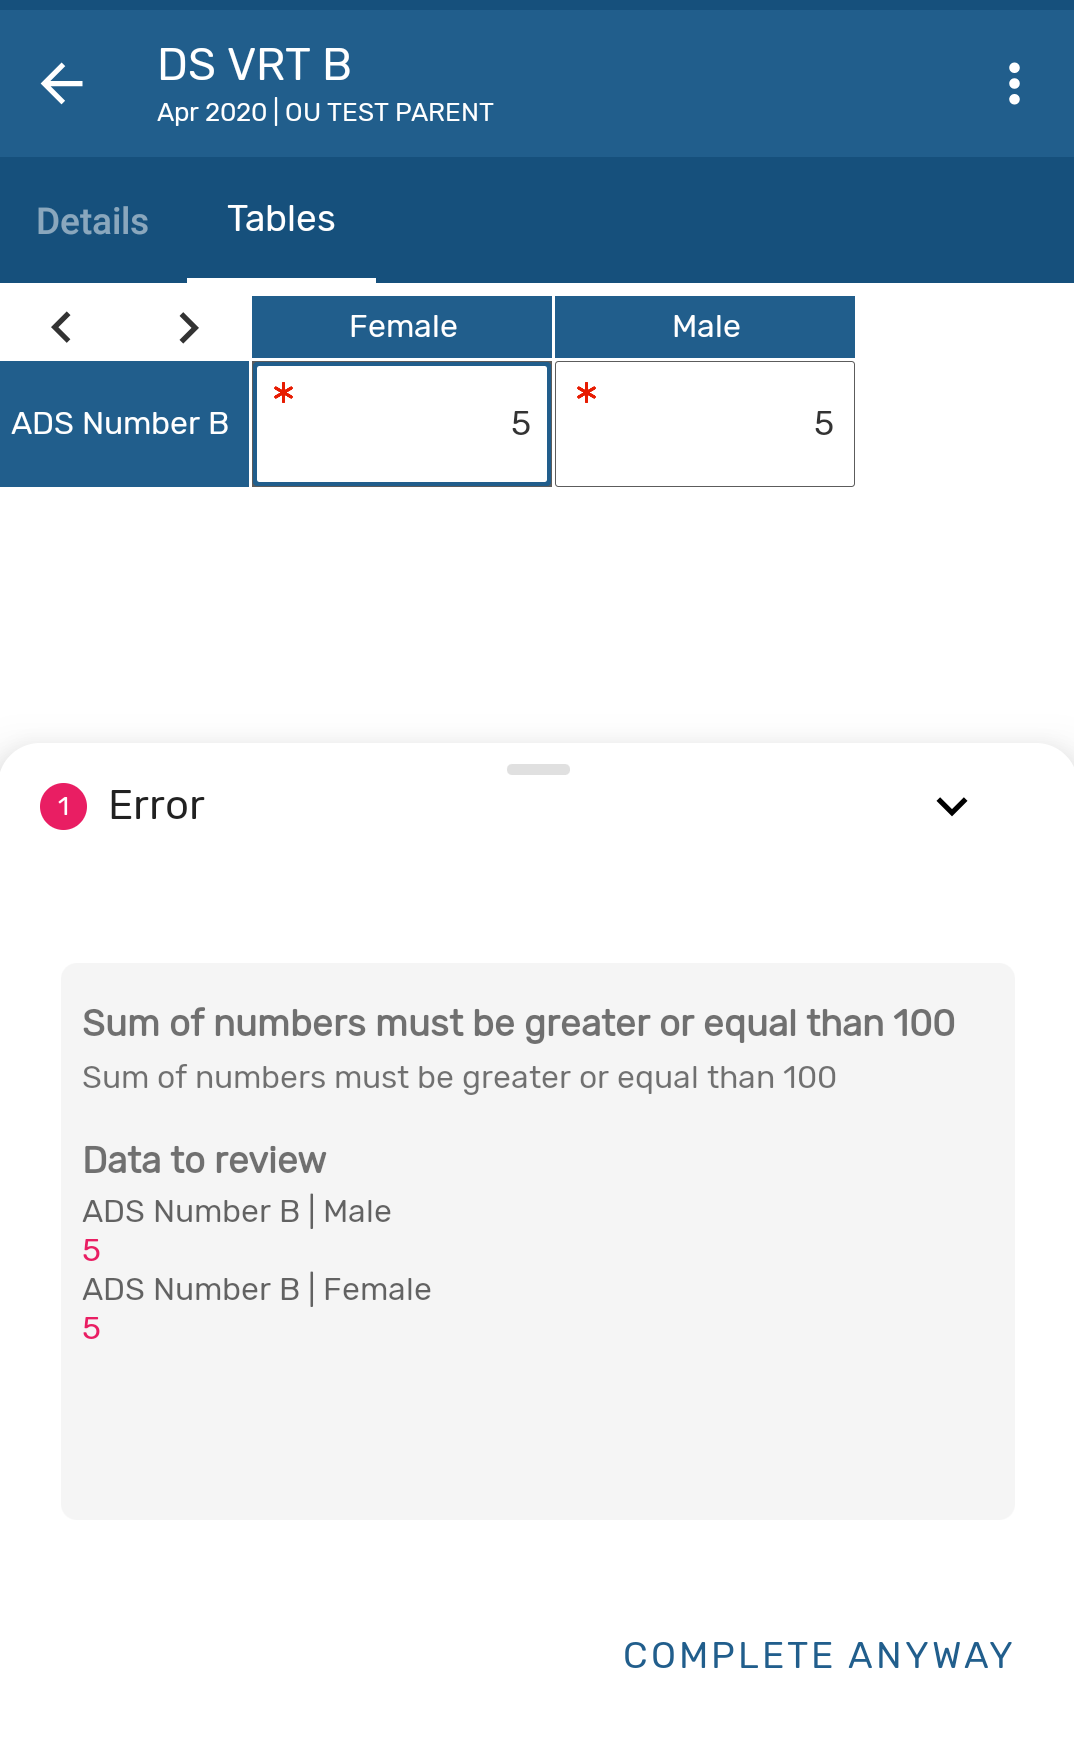
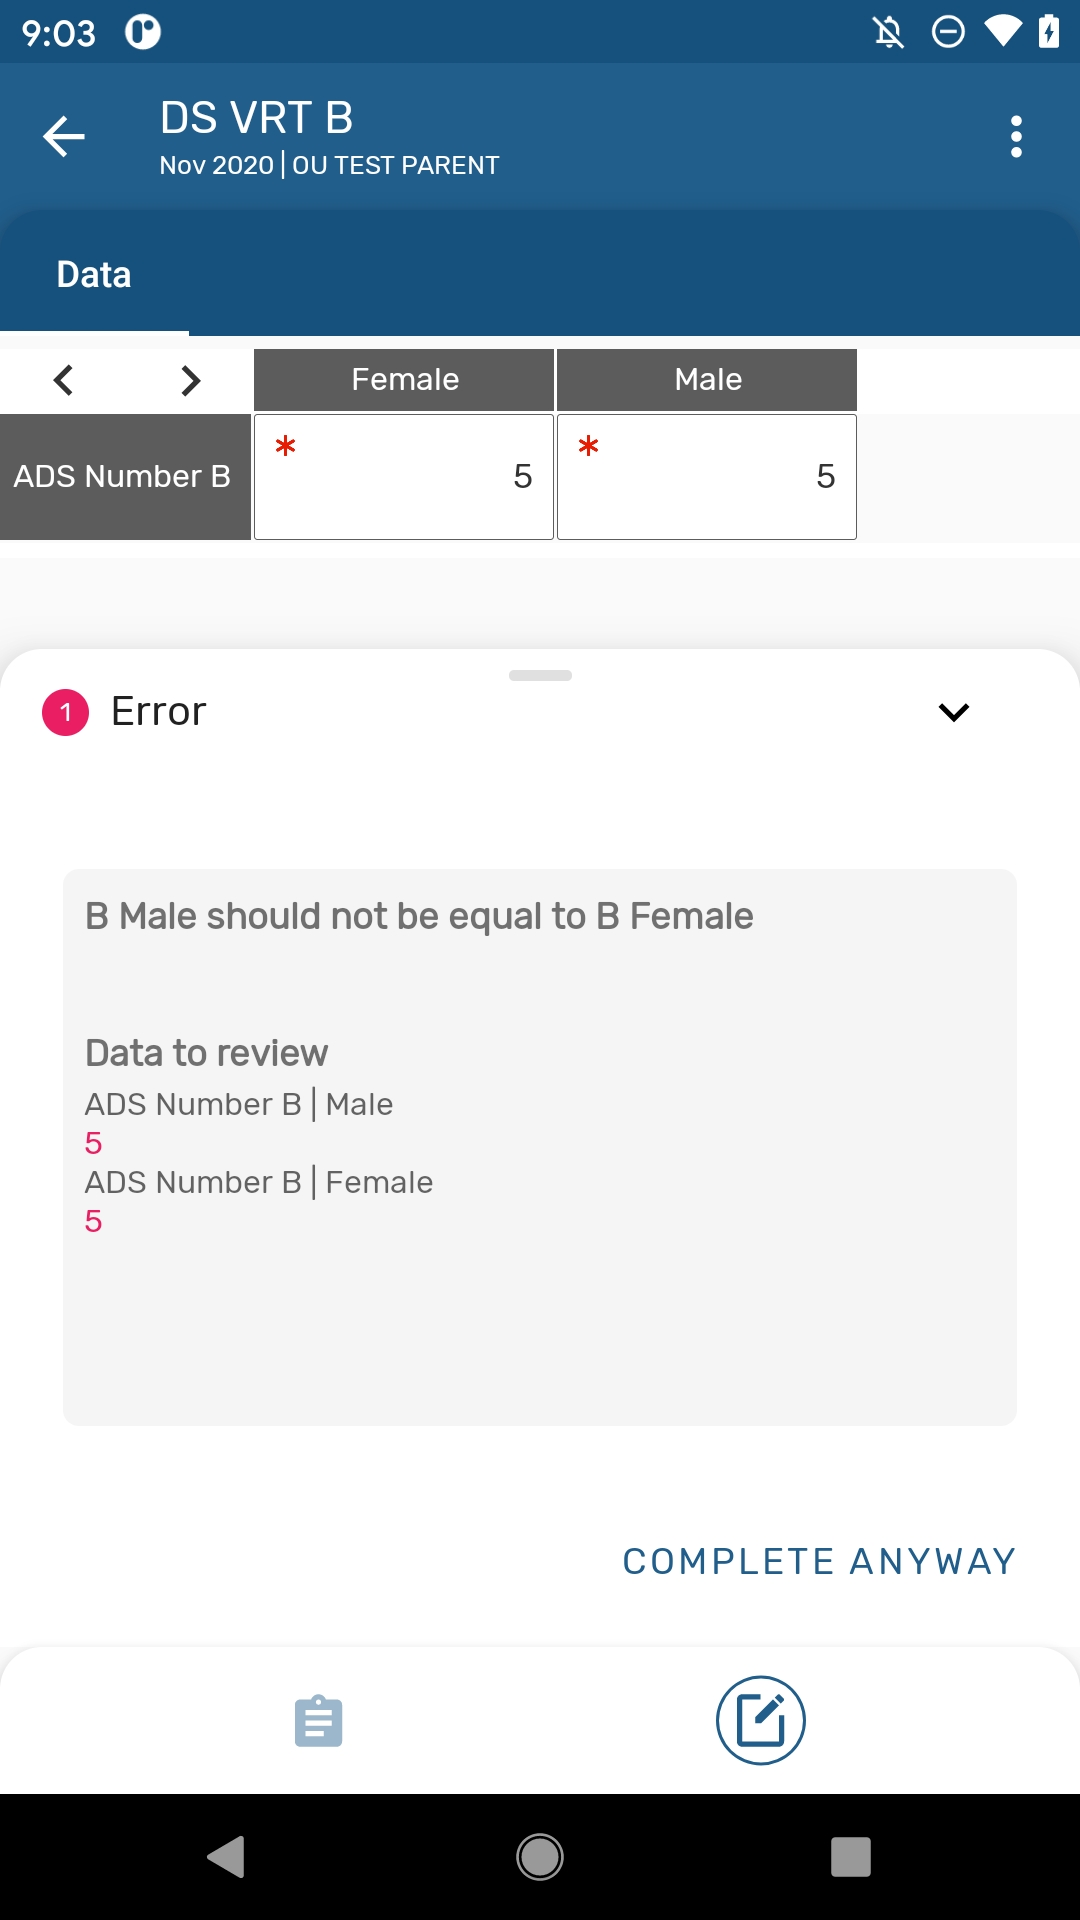
Data Sets

diff --git a/docs/src/commonmark/en/content/capture-app/programs-specific-features.md b/docs/src/commonmark/en/content/capture-app/programs-specific-features.md
@@ -2,6 +2,12 @@
 
 ## Data Sets in Android { #capture_app_datsets_android }
 
+### Navigation Bar
+
+Use the new navigation bar to switch between the data entry form and the overview screen.
+
+![](resources/images/image139.png){ width=25%}
+
 ### Overview Screen
 
 The new overview tab contains the following details:
@@ -44,6 +50,12 @@ The length of the first column in datasets is now calculated to show the full te
 
 ![](resources/images/image113.png){ width=25%}
 
+### Indicators
+
+Indicators are now available in default and section forms and are displayed at the bottom of the data entry form.
+
+![](resources/images/image140.png){ width=25%}
+
 ## Supported features overview { #capture_app_datsets_supported_features }
 
 
@@ -67,7 +79,7 @@ In the notes, ‘admin’ refers to someone who develops and configures a DHIS2 
 |Data input periods|Allows you to set a specific range of dates for a period's data-entry, and prevents data capture for periods outside of this date range.|![](resources/images/../../admin/icon-complete.png) | |
 |Days after period to qualify for timely submission|Sets the deadline (days after period) after which DHIS2 treats data entry as 'late'.| ![](resources/images/../../admin/icon-complete.png)| |
 |[Attribute] category combination|Allows an admin to attach a Category (set of Options) to the Data Set, generating a separate data entry screen for each Option (This is called an Attribute Category Combination in DHIS2).| ![](resources/images/../../admin/icon-complete.png)| |
-|[Attribute] Category Combination option restrictions|If Attribute Category Combinations (see above) are used, then this features gives admins the ability to restrict which specific options are available in the drop-down.  Each option can be restricted to a particular range of dates and/or organisation units, and that option will not be shown if data is being captured outside of these dates or org units.| ![](resources/images/../../admin/icon-complete.png)| [ANDROAPP-1153](https://jira.dhis2.org/browse/ANDROAPP-1153) Restriction is only possible using dates.|
+|[Attribute] Category Combination option restrictions|If Attribute Category Combinations (see above) are used, then this features gives admins the ability to restrict which specific options are available in the drop-down.  Each option can be restricted to a particular range of dates and/or organisation units, and that option will not be shown if data is being captured outside of these dates or org units.| ![](resources/images/../../admin/icon-complete.png)||
 |Complete notification recipients|Sends a DHIS2 message to the selected User Group when the Data Set is marked 'complete'.|![](resources/images/../../admin/icon-incomplete.png)| |
 |Send notification to completing user|Sends a DHIS2 message to the data-entry user when the Data Set is marked 'complete'.|![](resources/images/../../admin/icon-incomplete.png)| |
 |All fields for data elements required|Where one or more Categories are used to disaggregate a data element, this setting forces the user to either complete all disaggregations, or to leave them all empty.|![](resources/images/../../admin/icon-complete.png) | |
@@ -77,7 +89,7 @@ In the notes, ‘admin’ refers to someone who develops and configures a DHIS2 
 |Section forms - render sections as tabs|Displays each section in the form as a separate tab, instead of all together on the same page.|![](resources/images/../../admin/icon-incomplete.png)| |
 |Section forms - render vertically||![](resources/images/../../admin/icon-incomplete.png)| |
 |Data Element - CatCombos|Enables an individual Data Element to be automatically disaggregated into one or more categories (eg both male/female and child/adult), with separate fields/values collected for each of these disaggregations.|![](resources/images/../../admin/icon-complete.png)| |
-|Inline indicators / section form totals|Enables the default CatCombo for each data element to be overridden with a different CatCombo for this Data Set only.|![](resources/images/../../admin/icon-incomplete.png)| |
+|Inline indicators / section form totals|Enables the default CatCombo for each data element to be overridden with a different CatCombo for this Data Set only.|![](resources/images/../../admin/icon-complete.png)| |
 |Section forms - render sections as tabs|Adding indicators to Data Sets makes them available for use in section forms and custom forms; row and/or column totals can also be added to these forms.  (Both are displayed on the screen alongside data capture cells, and update automatically as values are captured.)|![](resources/images/../../admin/icon-incomplete.png)| |
 |Organisation unit assignment|Ensures the Data Set is only available for those organisation units to which it has been assigned.|![](resources/images/../../admin/icon-complete.png) | |
 |Compulsory data elements|This allows the marking of specific Data Elements/CatCombos as ‘compulsory’, which means users must enter a value (they cannot be left blank).| ![](resources/images/../../admin/icon-complete.png)| |
